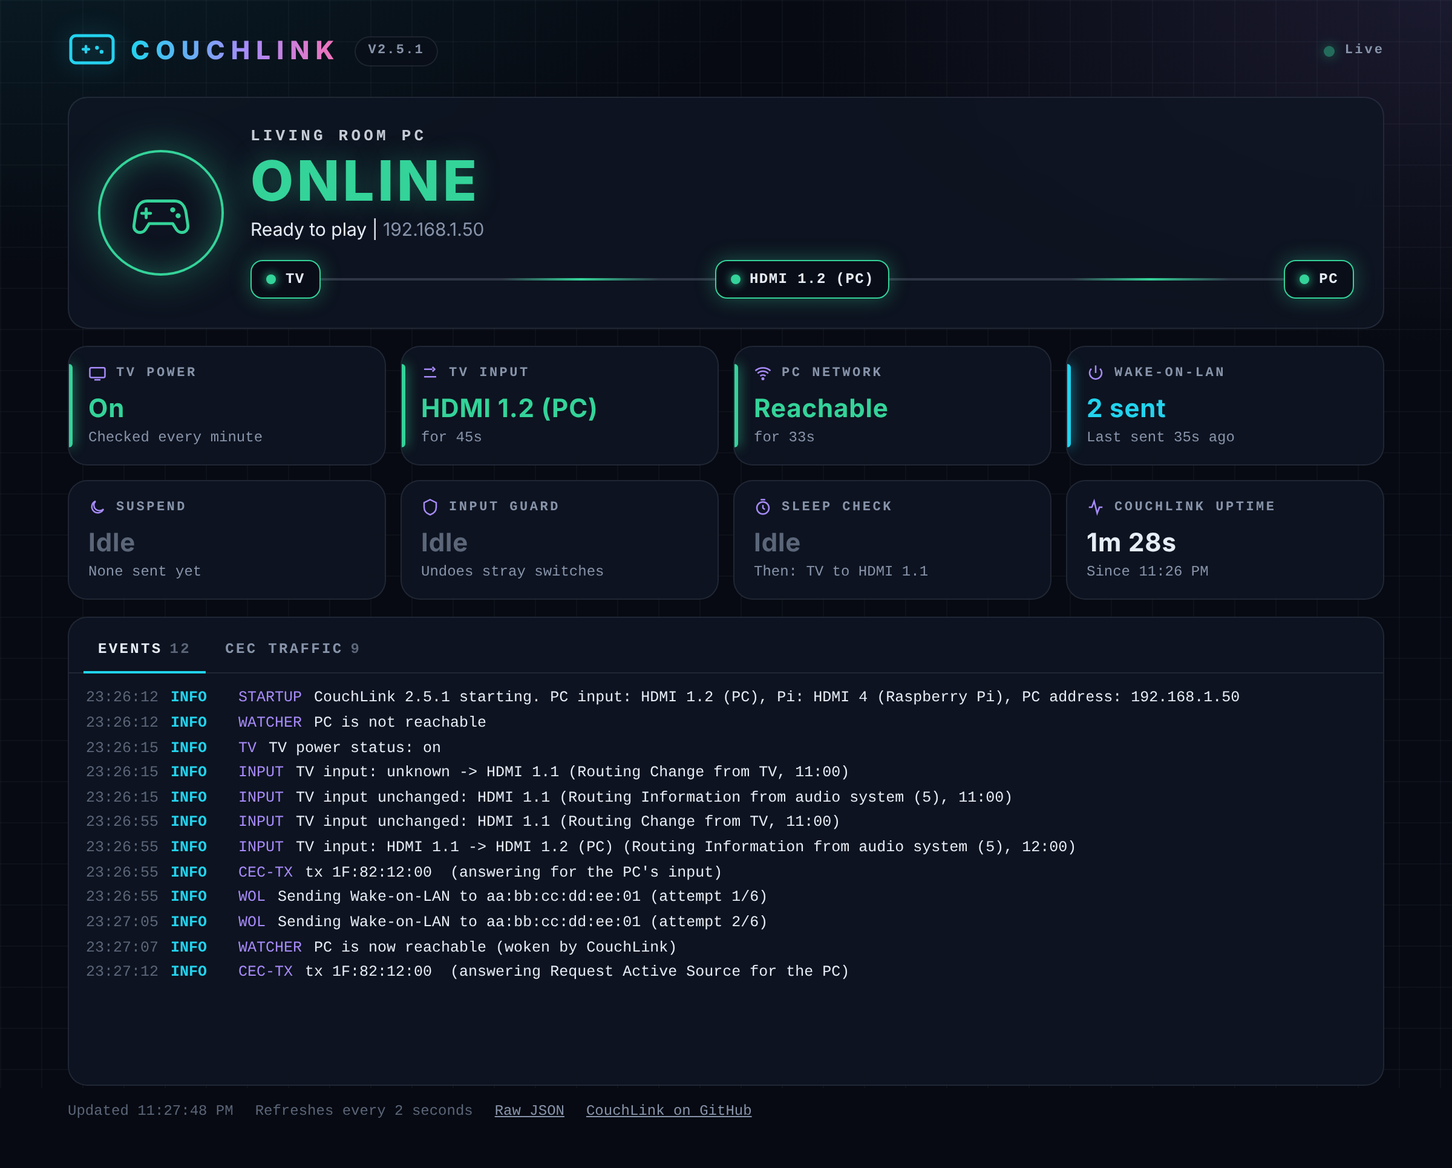
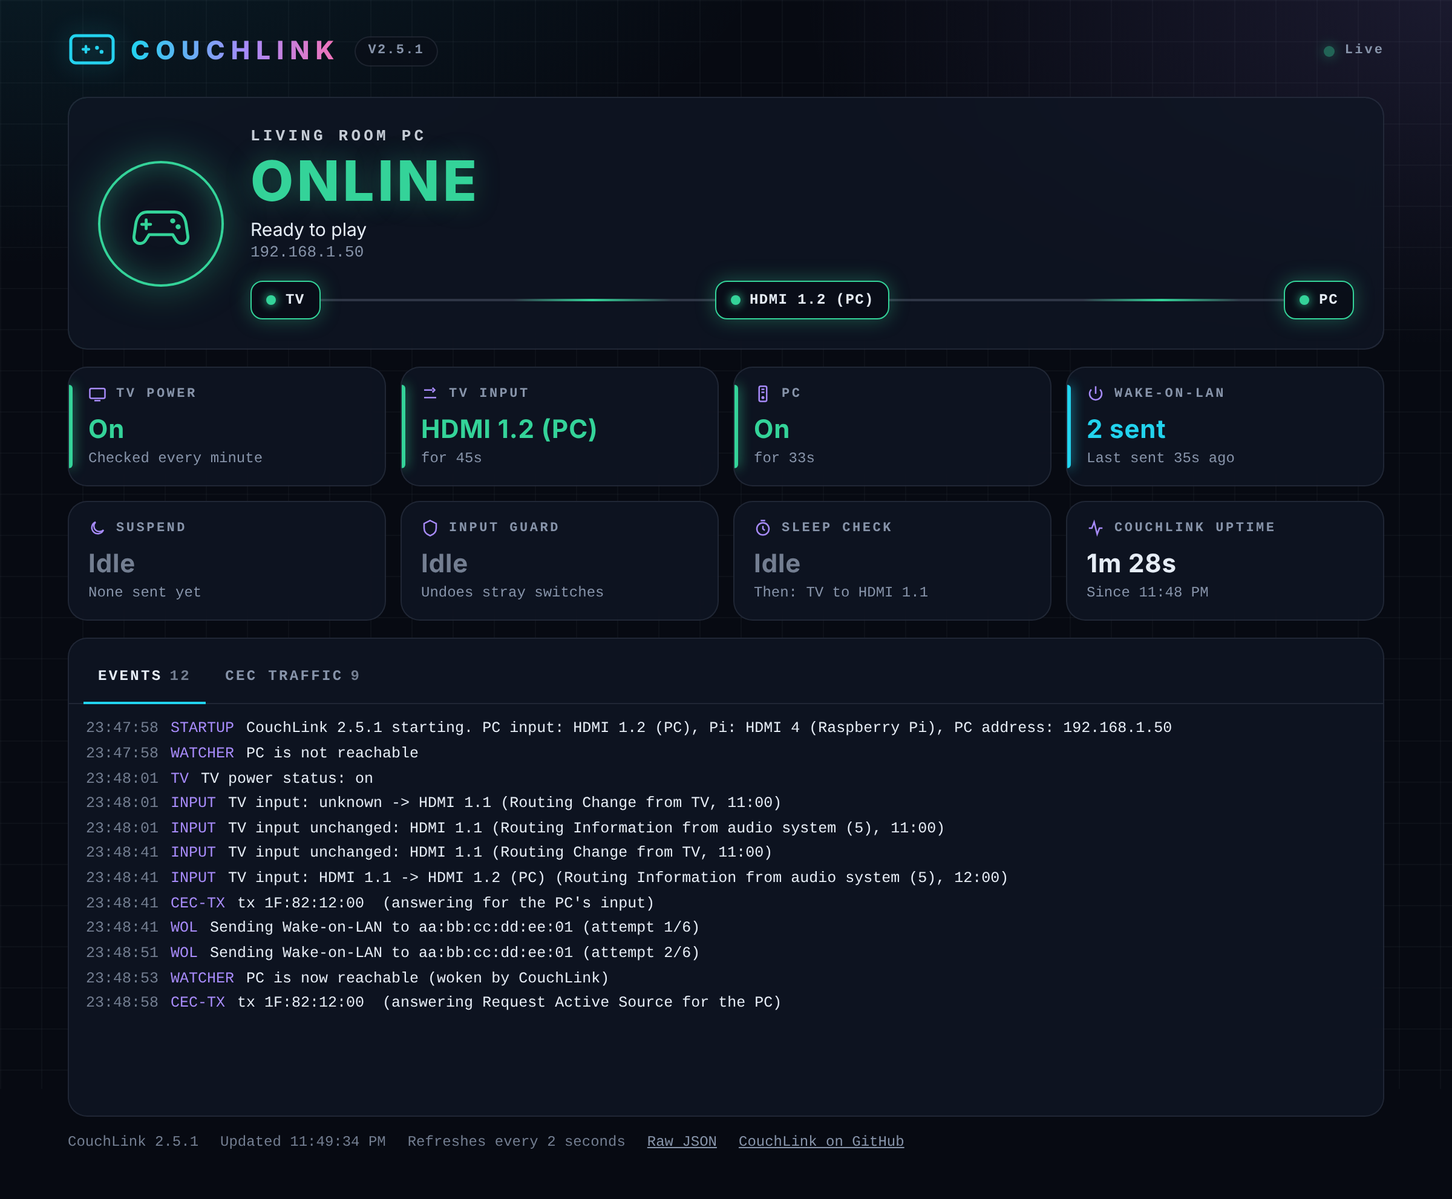
Refine the status page
Builds the "Refined" design and the fixes from the design review into the
status page.

- Lost contact: after two failed refreshes, the page dims what it shows
  and a banner says when CouchLink last reported. The header says
  "No contact". It all clears when CouchLink answers again.
- The "PC network" tile is now "PC", with a PC icon and the same words as
  the status line: On, Asleep, Off, Restarting or Offline.
- While the PC restarts, Sleep check shows "On hold" instead of a
  countdown at 0s.
- An unknown TV input shows "Unknown / Waiting for the TV".
- The PC's address sits on its own line under the status line.
- The browser tab title starts with the state, for example
  "Online - Living Room PC | CouchLink".
- Log lines only show the level for WARN and ERROR.
- Contrast: the dim gray is now #737e91, 4.5:1 on tiles and 4.8:1 on the
  page (was 3.2:1).
- Screen readers: text is only replaced when it changes, and the log is
  only redrawn when it has new lines, so the status and the log are not
  read out again every 2 seconds. Tile icons are hidden from screen
  readers.
- The tabs are 44px tall. On a phone, Live stays on the header row and the
  version moves to the footer, which now shows it on every screen.

Tests check the gray text contrast and that the new parts are in place.

diff --git a/couchlink.py b/couchlink.py
@@ -1186,7 +1186,7 @@ DASHBOARD_HTML = r'''<!doctype html>
   --panel-edge: rgba(148, 163, 184, 0.14);
   --text: #e6edf6;
   --muted: #8794aa;
-  --dim: #5b6679;
+  --dim: #737e91;
   --cyan: #22d3ee;
   --violet: #a78bfa;
   --pink: #f472b6;
@@ -1245,6 +1245,16 @@ header { display: flex; align-items: center; gap: 12px; flex-wrap: wrap; margin-
 .live.off .dot { background: var(--red); box-shadow: 0 0 10px var(--red); animation: none; }
 .live.off { color: var(--red); }
 
+/* lost contact with CouchLink: say so and dim what is now stale */
+.lost {
+  display: flex; gap: 12px; align-items: flex-start; margin: 0 0 14px; padding: 12px 16px;
+  border-radius: 12px; background: #2a1414; border: 1px solid var(--red); color: #fecaca; font-size: 14px;
+}
+.lost[hidden] { display: none; }
+.lost svg { width: 20px; height: 20px; flex: none; margin-top: 1px; color: var(--red); }
+.lost strong { display: block; color: #fee2e2; font-size: 15px; }
+body.stale .hero, body.stale .grid, body.stale .console { opacity: 0.5; }
+
 /* panels */
 .panel {
   position: relative; border-radius: 16px; background: var(--panel);
@@ -1280,7 +1290,7 @@ body[data-state="sleeping"] .orb::before {
   color: var(--accent); text-shadow: 0 0 22px var(--accent-soft); text-transform: uppercase; line-height: 1.05;
 }
 .sub { color: var(--text); font-size: 15px; }
-.sub .muted { color: var(--muted); }
+.sub .muted { display: block; margin-top: 2px; color: var(--muted); font: 13px var(--mono); }
 
 /* signal path */
 .path { display: flex; align-items: center; gap: 0; margin-top: 16px; }
@@ -1326,7 +1336,7 @@ body[data-state="sleeping"] .orb::before {
 .tab {
   appearance: none; border: 0; background: none; cursor: pointer;
   font: 600 12px var(--mono); letter-spacing: 0.14em; text-transform: uppercase; color: var(--muted);
-  padding: 9px 12px 11px; border-bottom: 2px solid transparent; margin-bottom: -1px;
+  min-height: 44px; padding: 0 12px; border-bottom: 2px solid transparent; margin-bottom: -1px;
 }
 .tab[aria-selected="true"] { color: var(--text); border-bottom-color: var(--cyan); }
 .tab:focus-visible { outline: 2px solid var(--cyan); outline-offset: 2px; border-radius: 6px; }
@@ -1365,8 +1375,12 @@ footer a { color: var(--muted); }
   .orb svg { width: 34px; height: 34px; }
   .state { font-size: 28px; }
   .sub { font-size: 14px; }
-  .sub .sep { display: none; }
-  .sub .muted { display: block; }
+  header { gap: 10px; }
+  .brand { gap: 10px; }
+  .brand svg { width: 32px; height: 32px; }
+  .word { font-size: 16px; letter-spacing: 0.18em; }
+  .chip { padding: 5px 8px; }
+  #version { display: none; }   /* the footer shows it, so Live stays on the header row */
   .path { margin-left: -80px; }
   .node { padding: 7px 9px; font-size: 11px; }
   .grid { gap: 10px; }
@@ -1400,6 +1414,11 @@ footer a { color: var(--muted); }
     <span class="live" id="live"><span class="dot"></span><span id="liveText">Connecting</span></span>
   </header>
 
+  <div class="lost" id="lost" role="status" hidden>
+    <svg viewBox="0 0 24 24" fill="none" stroke="currentColor" stroke-width="2" aria-hidden="true"><path d="M12 9v4M12 17h.01M10.3 3.9 1.8 18a2 2 0 0 0 1.7 3h17a2 2 0 0 0 1.7-3L13.7 3.9a2 2 0 0 0-3.4 0z"/></svg>
+    <div><strong>Lost contact with CouchLink</strong><span id="lostText">Check that the Pi is on and on the network.</span></div>
+  </div>
+
   <section class="panel hero" aria-live="polite">
     <div class="orb">
       <svg viewBox="0 0 64 64" fill="none" aria-hidden="true">
@@ -1411,7 +1430,7 @@ footer a { color: var(--muted); }
     <div>
       <div class="kicker" id="kicker">Gaming PC</div>
       <div class="state" id="state">Connecting</div>
-      <div class="sub" id="sub"><span class="muted">Waiting for CouchLink</span></div>
+      <div class="sub" id="sub"><span id="subText">Waiting for CouchLink</span><span class="muted" id="subHost"></span></div>
       <div class="path" aria-label="Signal path">
         <span class="node" id="nTv"><span class="led"></span>TV</span>
         <span class="link" id="l1"></span>
@@ -1423,14 +1442,14 @@ footer a { color: var(--muted); }
   </section>
 
   <section class="grid">
-    <div class="panel tile" id="tTv"><div class="label"><svg viewBox="0 0 24 24" fill="none" stroke="currentColor" stroke-width="2"><rect x="2" y="5" width="20" height="13" rx="2"/><path d="M8 21h8"/></svg>TV power</div><div class="value" id="vTv">-</div><div class="hint" id="hTv">-</div></div>
-    <div class="panel tile" id="tIn"><div class="label"><svg viewBox="0 0 24 24" fill="none" stroke="currentColor" stroke-width="2"><path d="M4 7h11M4 17h16M15 4l3 3-3 3"/></svg>TV input</div><div class="value" id="vIn">-</div><div class="hint" id="hIn">-</div></div>
-    <div class="panel tile" id="tNet"><div class="label"><svg viewBox="0 0 24 24" fill="none" stroke="currentColor" stroke-width="2"><path d="M2 9a15 15 0 0 1 20 0M5 12.5a10 10 0 0 1 14 0M8.5 16a5 5 0 0 1 7 0"/><circle cx="12" cy="19.5" r="1"/></svg>PC network</div><div class="value" id="vNet">-</div><div class="hint" id="hNet">-</div></div>
-    <div class="panel tile" id="tWol"><div class="label"><svg viewBox="0 0 24 24" fill="none" stroke="currentColor" stroke-width="2"><path d="M12 2v10M6.3 6.3a8 8 0 1 0 11.4 0"/></svg>Wake-on-LAN</div><div class="value" id="vWol">-</div><div class="hint" id="hWol">-</div></div>
-    <div class="panel tile" id="tSus"><div class="label"><svg viewBox="0 0 24 24" fill="none" stroke="currentColor" stroke-width="2"><path d="M20 14.5A8 8 0 1 1 9.5 4a6.5 6.5 0 0 0 10.5 10.5z"/></svg>Suspend</div><div class="value" id="vSus">-</div><div class="hint" id="hSus">-</div></div>
-    <div class="panel tile" id="tGuard"><div class="label"><svg viewBox="0 0 24 24" fill="none" stroke="currentColor" stroke-width="2"><path d="M12 2l8 4v6c0 5-3.5 8.5-8 10-4.5-1.5-8-5-8-10V6z"/></svg>Input guard</div><div class="value" id="vGuard">-</div><div class="hint" id="hGuard">-</div></div>
-    <div class="panel tile" id="tSleep"><div class="label"><svg viewBox="0 0 24 24" fill="none" stroke="currentColor" stroke-width="2"><circle cx="12" cy="13" r="8"/><path d="M12 9v4l2.5 2M9 2h6"/></svg>Sleep check</div><div class="value" id="vSleep">-</div><div class="hint" id="hSleep">-</div></div>
-    <div class="panel tile" id="tUp"><div class="label"><svg viewBox="0 0 24 24" fill="none" stroke="currentColor" stroke-width="2"><path d="M3 12h4l3-8 4 16 3-8h4"/></svg>CouchLink uptime</div><div class="value" id="vUp">-</div><div class="hint" id="hUp">-</div></div>
+    <div class="panel tile" id="tTv"><div class="label"><svg aria-hidden="true" viewBox="0 0 24 24" fill="none" stroke="currentColor" stroke-width="2"><rect x="2" y="5" width="20" height="13" rx="2"/><path d="M8 21h8"/></svg>TV power</div><div class="value" id="vTv">-</div><div class="hint" id="hTv">-</div></div>
+    <div class="panel tile" id="tIn"><div class="label"><svg aria-hidden="true" viewBox="0 0 24 24" fill="none" stroke="currentColor" stroke-width="2"><path d="M4 7h11M4 17h16M15 4l3 3-3 3"/></svg>TV input</div><div class="value" id="vIn">-</div><div class="hint" id="hIn">-</div></div>
+    <div class="panel tile" id="tNet"><div class="label"><svg aria-hidden="true" viewBox="0 0 24 24" fill="none" stroke="currentColor" stroke-width="2"><rect x="7" y="2" width="10" height="20" rx="2"/><path d="M10 6h4M10 10h4"/><circle cx="12" cy="17" r="1"/></svg>PC</div><div class="value" id="vNet">-</div><div class="hint" id="hNet">-</div></div>
+    <div class="panel tile" id="tWol"><div class="label"><svg aria-hidden="true" viewBox="0 0 24 24" fill="none" stroke="currentColor" stroke-width="2"><path d="M12 2v10M6.3 6.3a8 8 0 1 0 11.4 0"/></svg>Wake-on-LAN</div><div class="value" id="vWol">-</div><div class="hint" id="hWol">-</div></div>
+    <div class="panel tile" id="tSus"><div class="label"><svg aria-hidden="true" viewBox="0 0 24 24" fill="none" stroke="currentColor" stroke-width="2"><path d="M20 14.5A8 8 0 1 1 9.5 4a6.5 6.5 0 0 0 10.5 10.5z"/></svg>Suspend</div><div class="value" id="vSus">-</div><div class="hint" id="hSus">-</div></div>
+    <div class="panel tile" id="tGuard"><div class="label"><svg aria-hidden="true" viewBox="0 0 24 24" fill="none" stroke="currentColor" stroke-width="2"><path d="M12 2l8 4v6c0 5-3.5 8.5-8 10-4.5-1.5-8-5-8-10V6z"/></svg>Input guard</div><div class="value" id="vGuard">-</div><div class="hint" id="hGuard">-</div></div>
+    <div class="panel tile" id="tSleep"><div class="label"><svg aria-hidden="true" viewBox="0 0 24 24" fill="none" stroke="currentColor" stroke-width="2"><circle cx="12" cy="13" r="8"/><path d="M12 9v4l2.5 2M9 2h6"/></svg>Sleep check</div><div class="value" id="vSleep">-</div><div class="hint" id="hSleep">-</div></div>
+    <div class="panel tile" id="tUp"><div class="label"><svg aria-hidden="true" viewBox="0 0 24 24" fill="none" stroke="currentColor" stroke-width="2"><path d="M3 12h4l3-8 4 16 3-8h4"/></svg>CouchLink uptime</div><div class="value" id="vUp">-</div><div class="hint" id="hUp">-</div></div>
   </section>
 
   <section class="panel console">
@@ -1442,6 +1461,7 @@ footer a { color: var(--muted); }
   </section>
 
   <footer>
+    <span id="verFoot">CouchLink</span>
     <span id="updated">Not updated yet</span>
     <span>Refreshes every 2 seconds</span>
     <a href="/api">Raw JSON</a>
@@ -1455,6 +1475,9 @@ footer a { color: var(--muted); }
   var $ = function (id) { return document.getElementById(id); };
   var tab = "log";
   var last = null;
+  var lastOk = null;      // when the page last heard from CouchLink
+  var failures = 0;
+  var drawn = "";         // what the log box shows, so it is only redrawn when that changes
 
   function dur(s) {
     if (s === null || s === undefined) return "-";
@@ -1472,10 +1495,15 @@ footer a { color: var(--muted); }
     if (s % 60 === 0) return s === 60 ? "Checked every minute" : "Checked every " + s / 60 + " minutes";
     return "Checked every " + s + "s";
   }
-  function set(id, text, cls) {
+  // Only touch text that changed, so screen readers don't repeat the page every 2 seconds.
+  function put(id, text) {
     var el = $(id);
-    el.textContent = text;
-    if (cls !== undefined) el.className = "value " + cls;
+    if (el.textContent !== text) el.textContent = text;
+  }
+  function set(id, text, cls) {
+    put(id, text);
+    var el = $(id);
+    if (cls !== undefined && el.className !== "value " + cls) el.className = "value " + cls;
   }
   function accent(tileId, color) { $(tileId).style.setProperty("--tile-accent", color || "transparent"); }
 
@@ -1497,73 +1525,84 @@ footer a { color: var(--muted); }
     last = d;
     var v = view(d);
     document.body.setAttribute("data-state", v[0]);
-    $("state").textContent = v[1];
-    $("kicker").textContent = d.pc_name || "Gaming PC";
-    document.title = (d.pc_name ? d.pc_name + " | " : "") + "CouchLink";
-    var sub = $("sub");
-    sub.textContent = "";
-    sub.appendChild(document.createTextNode(v[2]));
-    sub.appendChild(span("sep", "  |  "));
-    sub.appendChild(span("muted", d.pc_host || "PC"));
+    put("state", v[1]);
+    put("kicker", d.pc_name || "Gaming PC");
+    var title = v[1] + " - " + (d.pc_name || "Gaming PC") + " | CouchLink";
+    if (document.title !== title) document.title = title;
+    put("subText", v[2]);
+    put("subHost", d.pc_host || "");
 
-    $("version").textContent = "v" + d.version;
+    put("version", "v" + d.version);
+    put("verFoot", "CouchLink " + d.version);
     $("dry").hidden = !d.dry_run;
 
     var tvOn = d.tv_power === "on";
     var onPc = d.pc_should_be === "awake";
     $("nTv").className = "node" + (tvOn ? " on" : "");
     $("nIn").className = "node" + (tvOn && d.tv_input_address ? " on" : "");
-    $("nInText").textContent = d.tv_input_address === "standby" ? "Off" : d.tv_input_address ? d.tv_input : "Input";
+    put("nInText", d.tv_input_address === "standby" ? "Off" : d.tv_input_address ? d.tv_input : "Input");
     $("nPc").className = "node" + (up(d) ? " on" : "");
     $("l1").className = "link" + (tvOn ? " on" : "");
     $("l2").className = "link" + (onPc && d.pc_reachable ? " on" : "");
 
     var power = d.tv_power === "on" ? ["On", "good"] : d.tv_power === "standby" ? ["Standby", "calm"] : ["Unknown", "dim"];
     set("vTv", power[0], power[1]);
-    $("hTv").textContent = every(d.power_poll_interval);
+    put("hTv", every(d.power_poll_interval));
     accent("tTv", d.tv_power === "on" ? "var(--green)" : null);
 
-    set("vIn", d.tv_input, onPc ? "good" : "");
-    $("hIn").textContent = "for " + dur(d.tv_input_for_seconds);
+    if (d.tv_input_address) {
+      set("vIn", d.tv_input, onPc ? "good" : "");
+      put("hIn", "for " + dur(d.tv_input_for_seconds));
+    } else {
+      set("vIn", "Unknown", "dim");
+      put("hIn", "Waiting for the TV");
+    }
     accent("tIn", onPc ? "var(--green)" : null);
 
     var offline = {asleep: "Asleep", off: "Off", restarting: "Restarting"}[d.pc_power] || "Offline";
-    set("vNet", d.pc_reachable === null ? "Checking" : d.pc_reachable ? "Reachable" : offline,
+    set("vNet", d.pc_reachable === null ? "Checking" : d.pc_reachable ? "On" : offline,
         d.pc_reachable ? "good" : d.pc_reachable === false ? "calm" : "dim");
-    $("hNet").textContent = d.pc_state_seconds === null || d.pc_state_seconds === undefined ? "-"
-        : (d.pc_state_since_start ? "for at least " : "for ") + dur(d.pc_state_seconds);
+    put("hNet", d.pc_state_seconds === null || d.pc_state_seconds === undefined ? "-"
+        : (d.pc_state_since_start ? "for at least " : "for ") + dur(d.pc_state_seconds));
     accent("tNet", d.pc_reachable ? "var(--green)" : null);
 
     set("vWol", d.wol_attempts ? d.wol_attempts + " sent" : "Idle", d.wol_attempts ? "cool" : "dim");
-    $("hWol").textContent = lastSent(d.last_wol_seconds_ago);
+    put("hWol", lastSent(d.last_wol_seconds_ago));
     accent("tWol", d.wol_attempts ? "var(--cyan)" : null);
 
     set("vSus", d.suspend_attempts ? d.suspend_attempts + " sent" : "Idle", d.suspend_attempts ? "warn" : "dim");
-    $("hSus").textContent = lastSent(d.last_suspend_seconds_ago);
+    put("hSus", lastSent(d.last_suspend_seconds_ago));
     accent("tSus", d.suspend_attempts ? "var(--amber)" : null);
 
     set("vGuard", d.guard_active ? "Armed" : "Idle", d.guard_active ? "cool" : "dim");
-    $("hGuard").textContent = "Undoes stray switches";
+    put("hGuard", "Undoes stray switches");
     accent("tGuard", d.guard_active ? "var(--cyan)" : null);
 
     var left = d.pc_sleep_check_seconds_left;
-    set("vSleep", left === null || left === undefined ? "Idle" : left + "s", left === null || left === undefined ? "dim" : "warn");
-    $("hSleep").textContent = {switch: "Then: TV to " + (d.on_pc_sleep_target || "another input"),
-                               standby: "Then: TV off"}[d.on_pc_sleep] || "Then: TV left alone";
-    accent("tSleep", left === null || left === undefined ? null : "var(--amber)");
+    var then = {switch: "Then: TV to " + (d.on_pc_sleep_target || "another input"),
+                standby: "Then: TV off"}[d.on_pc_sleep] || "Then: TV left alone";
+    var counting = left !== null && left !== undefined;
+    if (counting && d.pc_power === "restarting") {
+      set("vSleep", "On hold", "calm");     // a restart doesn't count as going to sleep
+      put("hSleep", "PC is restarting");
+      accent("tSleep", null);
+    } else {
+      set("vSleep", counting ? left + "s" : "Idle", counting ? "warn" : "dim");
+      put("hSleep", then);
+      accent("tSleep", counting ? "var(--amber)" : null);
+    }
 
     set("vUp", dur(d.uptime_seconds), "");
     var started = new Date(Date.now() - d.uptime_seconds * 1000);
     var at = started.toLocaleTimeString([], { hour: "numeric", minute: "2-digit" });
     if (d.uptime_seconds >= 86400) at = started.toLocaleDateString([], { month: "short", day: "numeric" }) + ", " + at;
-    $("hUp").textContent = "Since " + at;
+    put("hUp", "Since " + at);
 
-    $("cLog").textContent = (d.recent_log || []).length;
-    $("cCec").textContent = (d.recent_traffic || []).length;
-    drawLines();
+    put("cLog", String((d.recent_log || []).length));
+    put("cCec", String((d.recent_traffic || []).length));
+    drawLines(false);
 
-    var now = new Date();
-    $("updated").textContent = "Updated " + now.toLocaleTimeString();
+    put("updated", "Updated " + new Date().toLocaleTimeString());
   }
   function up(d) { return d.pc_reachable === true; }
 
@@ -1577,11 +1616,14 @@ footer a { color: var(--muted); }
     return s;
   }
 
-  function drawLines() {
+  function drawLines(force) {
     if (!last) return;
     var box = $("lines");
-    var atBottom = box.scrollHeight - box.scrollTop - box.clientHeight < 40;
     var items = tab === "log" ? (last.recent_log || []) : (last.recent_traffic || []);
+    var key = tab + "|" + items.length + "|" + (items[items.length - 1] || "");
+    if (!force && key === drawn) return;
+    drawn = key;
+    var atBottom = box.scrollHeight - box.scrollTop - box.clientHeight < 40;
     var frag = document.createDocumentFragment();
     items.forEach(function (text) {
       var row = document.createElement("div");
@@ -1589,7 +1631,7 @@ footer a { color: var(--muted); }
       var m;
       if (tab === "log" && (m = LOG_RE.exec(text))) {
         row.appendChild(span("t", m[1]));
-        row.appendChild(span("lv " + m[2], m[2]));
+        if (m[2] !== "INFO") row.appendChild(span("lv " + m[2], m[2]));
         row.appendChild(span("c", m[3]));
         row.appendChild(span("m", m[4]));
       } else if (tab === "cec" && (m = CEC_RE.exec(text))) {
@@ -1611,7 +1653,7 @@ footer a { color: var(--muted); }
     tab = name;
     $("tabLog").setAttribute("aria-selected", name === "log");
     $("tabCec").setAttribute("aria-selected", name === "cec");
-    drawLines();
+    drawLines(true);
     var box = $("lines");
     box.scrollTop = box.scrollHeight;
   }
@@ -1619,18 +1661,28 @@ footer a { color: var(--muted); }
   $("tabCec").addEventListener("click", function () { selectTab("cec"); });
 
   function setLive(ok) {
-    $("live").className = "live" + (ok ? "" : " off");
-    $("liveText").textContent = ok ? "Live" : "Offline";
-    if (!ok && !last) {
-      $("state").textContent = "No connection";
-      $("sub").textContent = "CouchLink is not answering";
+    failures = ok ? 0 : failures + 1;
+    var lost = failures >= 2;               // one missed refresh can be a blip
+    $("live").className = "live" + (lost ? " off" : "");
+    put("liveText", lost ? "No contact" : "Live");
+    if (lost && !last) {
+      put("state", "No connection");
+      put("subText", "CouchLink is not answering");
+    }
+    var stale = lost && last !== null;
+    document.body.classList.toggle("stale", stale);
+    $("lost").hidden = !stale;
+    if (stale) {
+      put("lostText", "Showing what it last reported at " +
+          lastOk.toLocaleTimeString([], { hour: "numeric", minute: "2-digit" }) +
+          ". Check that the Pi is on and on the network.");
     }
   }
 
   function poll() {
     fetch("/api", { cache: "no-store" })
       .then(function (r) { if (!r.ok) throw new Error(r.status); return r.json(); })
-      .then(function (d) { render(d); setLive(true); })
+      .then(function (d) { lastOk = new Date(); render(d); setLive(true); })
       .catch(function () { setLive(false); });
   }
   poll();

diff --git a/test_couchlink.py b/test_couchlink.py
@@ -403,6 +403,33 @@ class FlowTests(unittest.TestCase):
         self.assertEqual(couchlink.own_address("127.0.0.1"), "127.0.0.1")
         self.assertIsNone(couchlink.own_address("no-such-host.invalid"))
 
+    def test_status_page_text_has_enough_contrast(self):
+        """The page's gray text colors stay readable (WCAG AA, 4.5:1) on its tiles and background."""
+        import re
+
+        def luminance(hexcolor):
+            rgb = [int(hexcolor[i:i + 2], 16) / 255 for i in (0, 2, 4)]
+            lin = [c / 12.92 if c <= 0.04045 else ((c + 0.055) / 1.055) ** 2.4 for c in rgb]
+            return 0.2126 * lin[0] + 0.7152 * lin[1] + 0.0722 * lin[2]
+
+        def ratio(a, b):
+            hi, lo = sorted((luminance(a), luminance(b)), reverse=True)
+            return (hi + 0.05) / (lo + 0.05)
+
+        html = couchlink.DASHBOARD_HTML
+        page = re.search(r"--bg: #([0-9a-f]{6})", html).group(1)
+        tile = "0e1320"     # --panel blended over --bg
+        for name in ("muted", "dim"):
+            color = re.search(rf"--{name}: #([0-9a-f]{{6}})", html).group(1)
+            for ground in (page, tile):
+                self.assertGreaterEqual(ratio(color, ground), 4.5, f"--{name} on #{ground}")
+
+    def test_status_page_parts(self):
+        html = couchlink.DASHBOARD_HTML
+        self.assertIn('id="lost" role="status" hidden', html)       # the lost-contact banner
+        self.assertIn('</svg>PC</div>', html)                        # the PC tile
+        self.assertIn("min-height: 44px", html)                      # tabs big enough to tap
+
     def test_status_page_links_to_repo(self):
         self.assertIn('href="https://github.com/blackhat840/CouchLink"', couchlink.DASHBOARD_HTML)
 

diff --git a/docs/status-page-and-logs.md b/docs/status-page-and-logs.md
@@ -17,14 +17,22 @@ It shows:
   for how CouchLink tells them apart. The name comes from `pc_name`, or from the PC's
   own hostname if that is not set.
 - TV power and input, and how long the TV has been on that input.
-- Whether the PC is up, asleep or off, and for how long. If it was already
-  like that when CouchLink started, it says "for at least".
+- Whether the PC is on, asleep, off or restarting, and for how long. If it was
+  already like that when CouchLink started, it says "for at least".
 - Wake-on-LAN and suspend attempts, the input guard, the sleep check and what
-  happens after it, and how long CouchLink has been running.
+  happens after it, and how long CouchLink has been running. While the PC
+  restarts, the sleep check shows "On hold".
 - Recent events and raw CEC traffic, each in its own tab.
 - Links to the raw JSON and to this repository.
 
-The page loads nothing from the internet.
+If the page loses contact with CouchLink, for example because the Pi is off,
+it dims everything and says when it last heard from it. It comes back by
+itself when CouchLink answers again.
+
+The browser tab's title starts with the PC's state, so you can see it from
+another tab. The page loads nothing from the internet, and it works with
+screen readers: the status is read out when it changes, not on every
+refresh.
 
 `http://<pi>:8080/api` returns the same information as JSON. There is no
 login, so keep the page on a trusted network.
